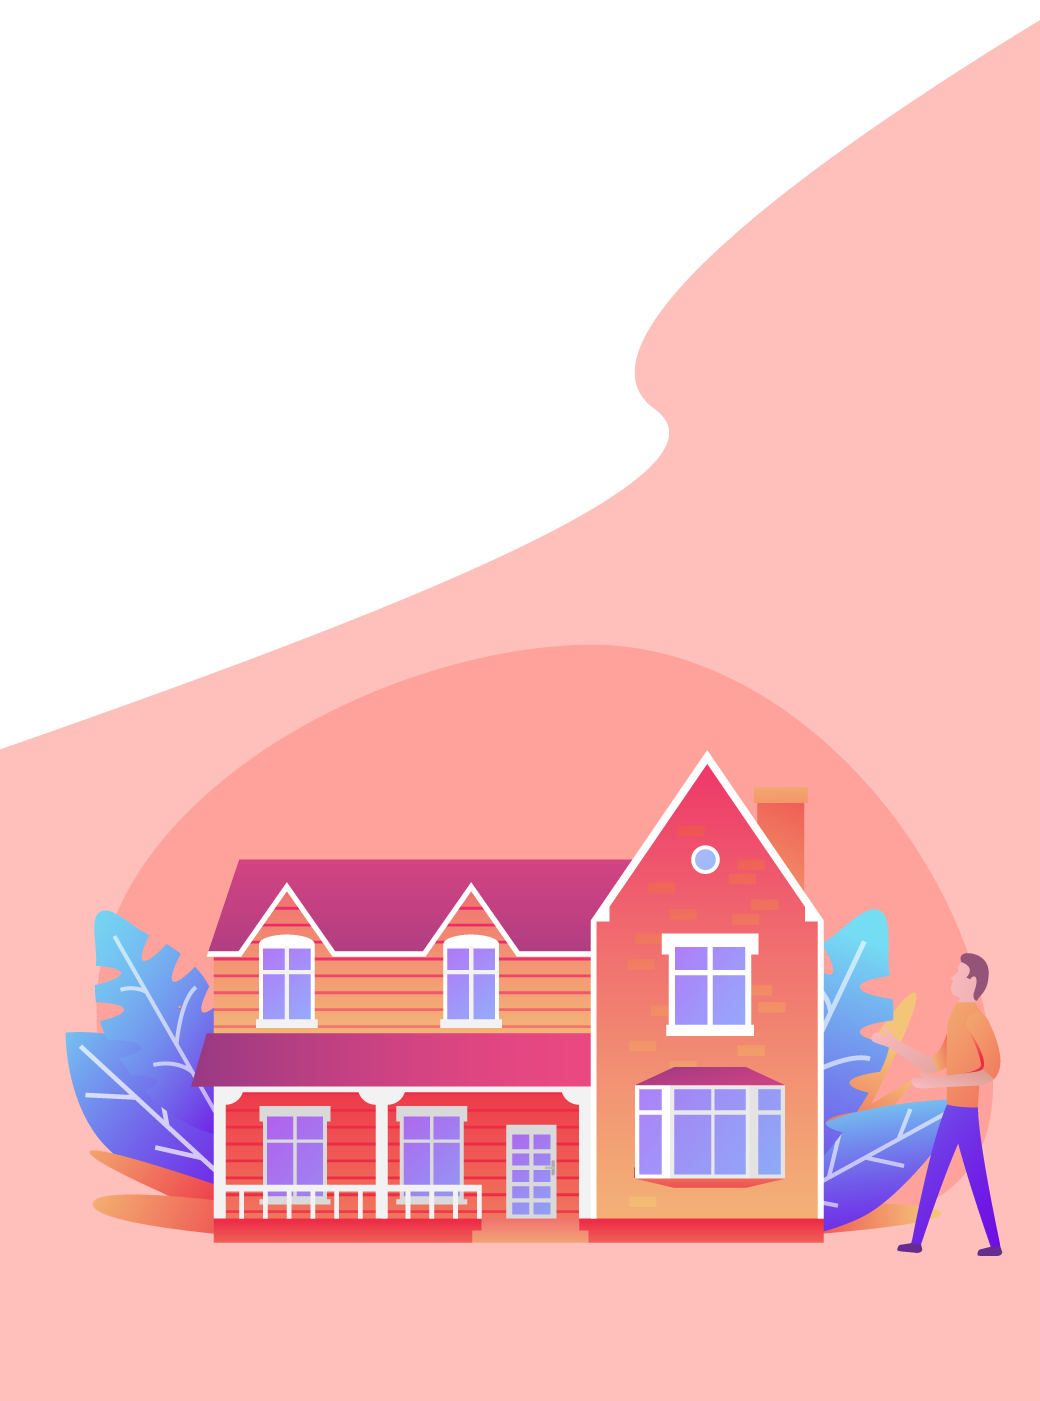
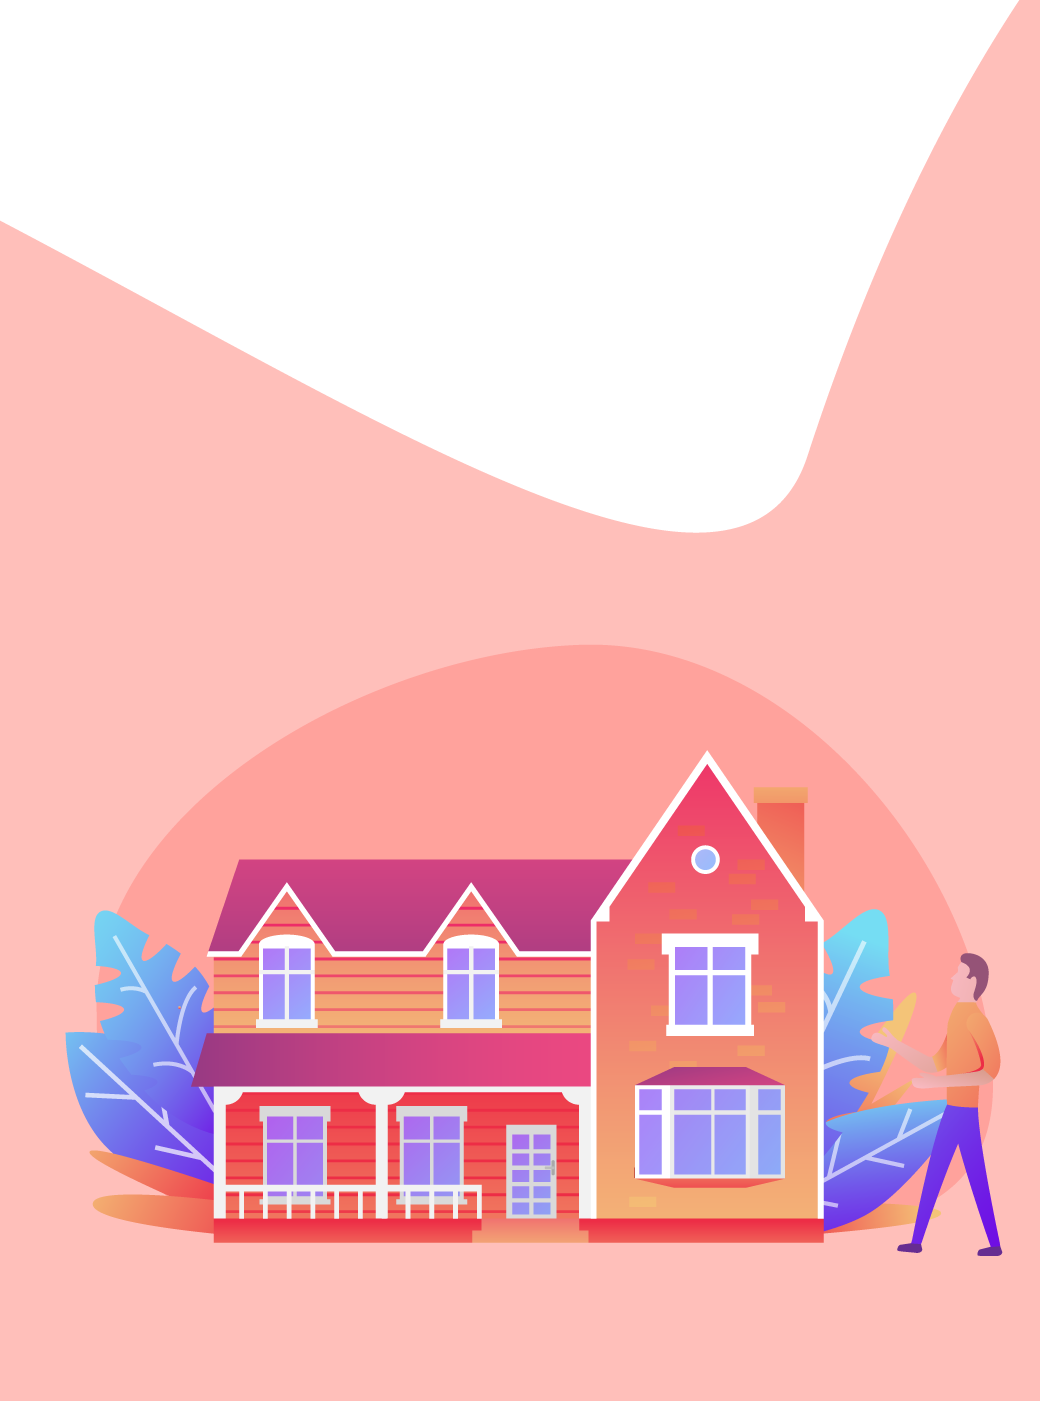
ipad hero responsive

Changed region(s): [[0.0, 0.0307, 0.9538, 0.5525], [0.9538, 0.0, 1.0, 0.0307]]

diff --git a/front-end/src/assets/css/general.css b/front-end/src/assets/css/general.css
@@ -412,19 +412,23 @@ body {
 
 @media (max-width: 1024px) {
   .intro-section .bg-stretch {
-    background-image: url("../images/finalhero_ipad2.png");
+    background-image: url("../images/finalhero_ipad3.png");
   }
 
   .bg-stretch {
     align-items: flex-start;
     justify-content: center;
-    padding-top: 150px;
+    padding-top: 100px;
   }
 
     .slide-frame .text .slide-title {
     font-size: 6vw;
-
   } 
+
+  .bg-stretch .slide-frame .text p {
+    color: black;
+    font-size: 1.7vw;
+  }
   
 
 
@@ -565,9 +569,10 @@ body {
 .bg-stretch .text {
   padding-top: 0;
   align-items: center;
+  padding:60px;
 
 }
-
+/* 
 @media (max-width: 650px) {
   .Hero .intro-section .bg-stretch {
     background: url("../images/wallpaper9_mobile.png");
@@ -604,7 +609,7 @@ body {
   .down-arrow {
     bottom: 0px;
   }
-}
+} */
 
 @keyframes HeroAnimation {
   0% {
